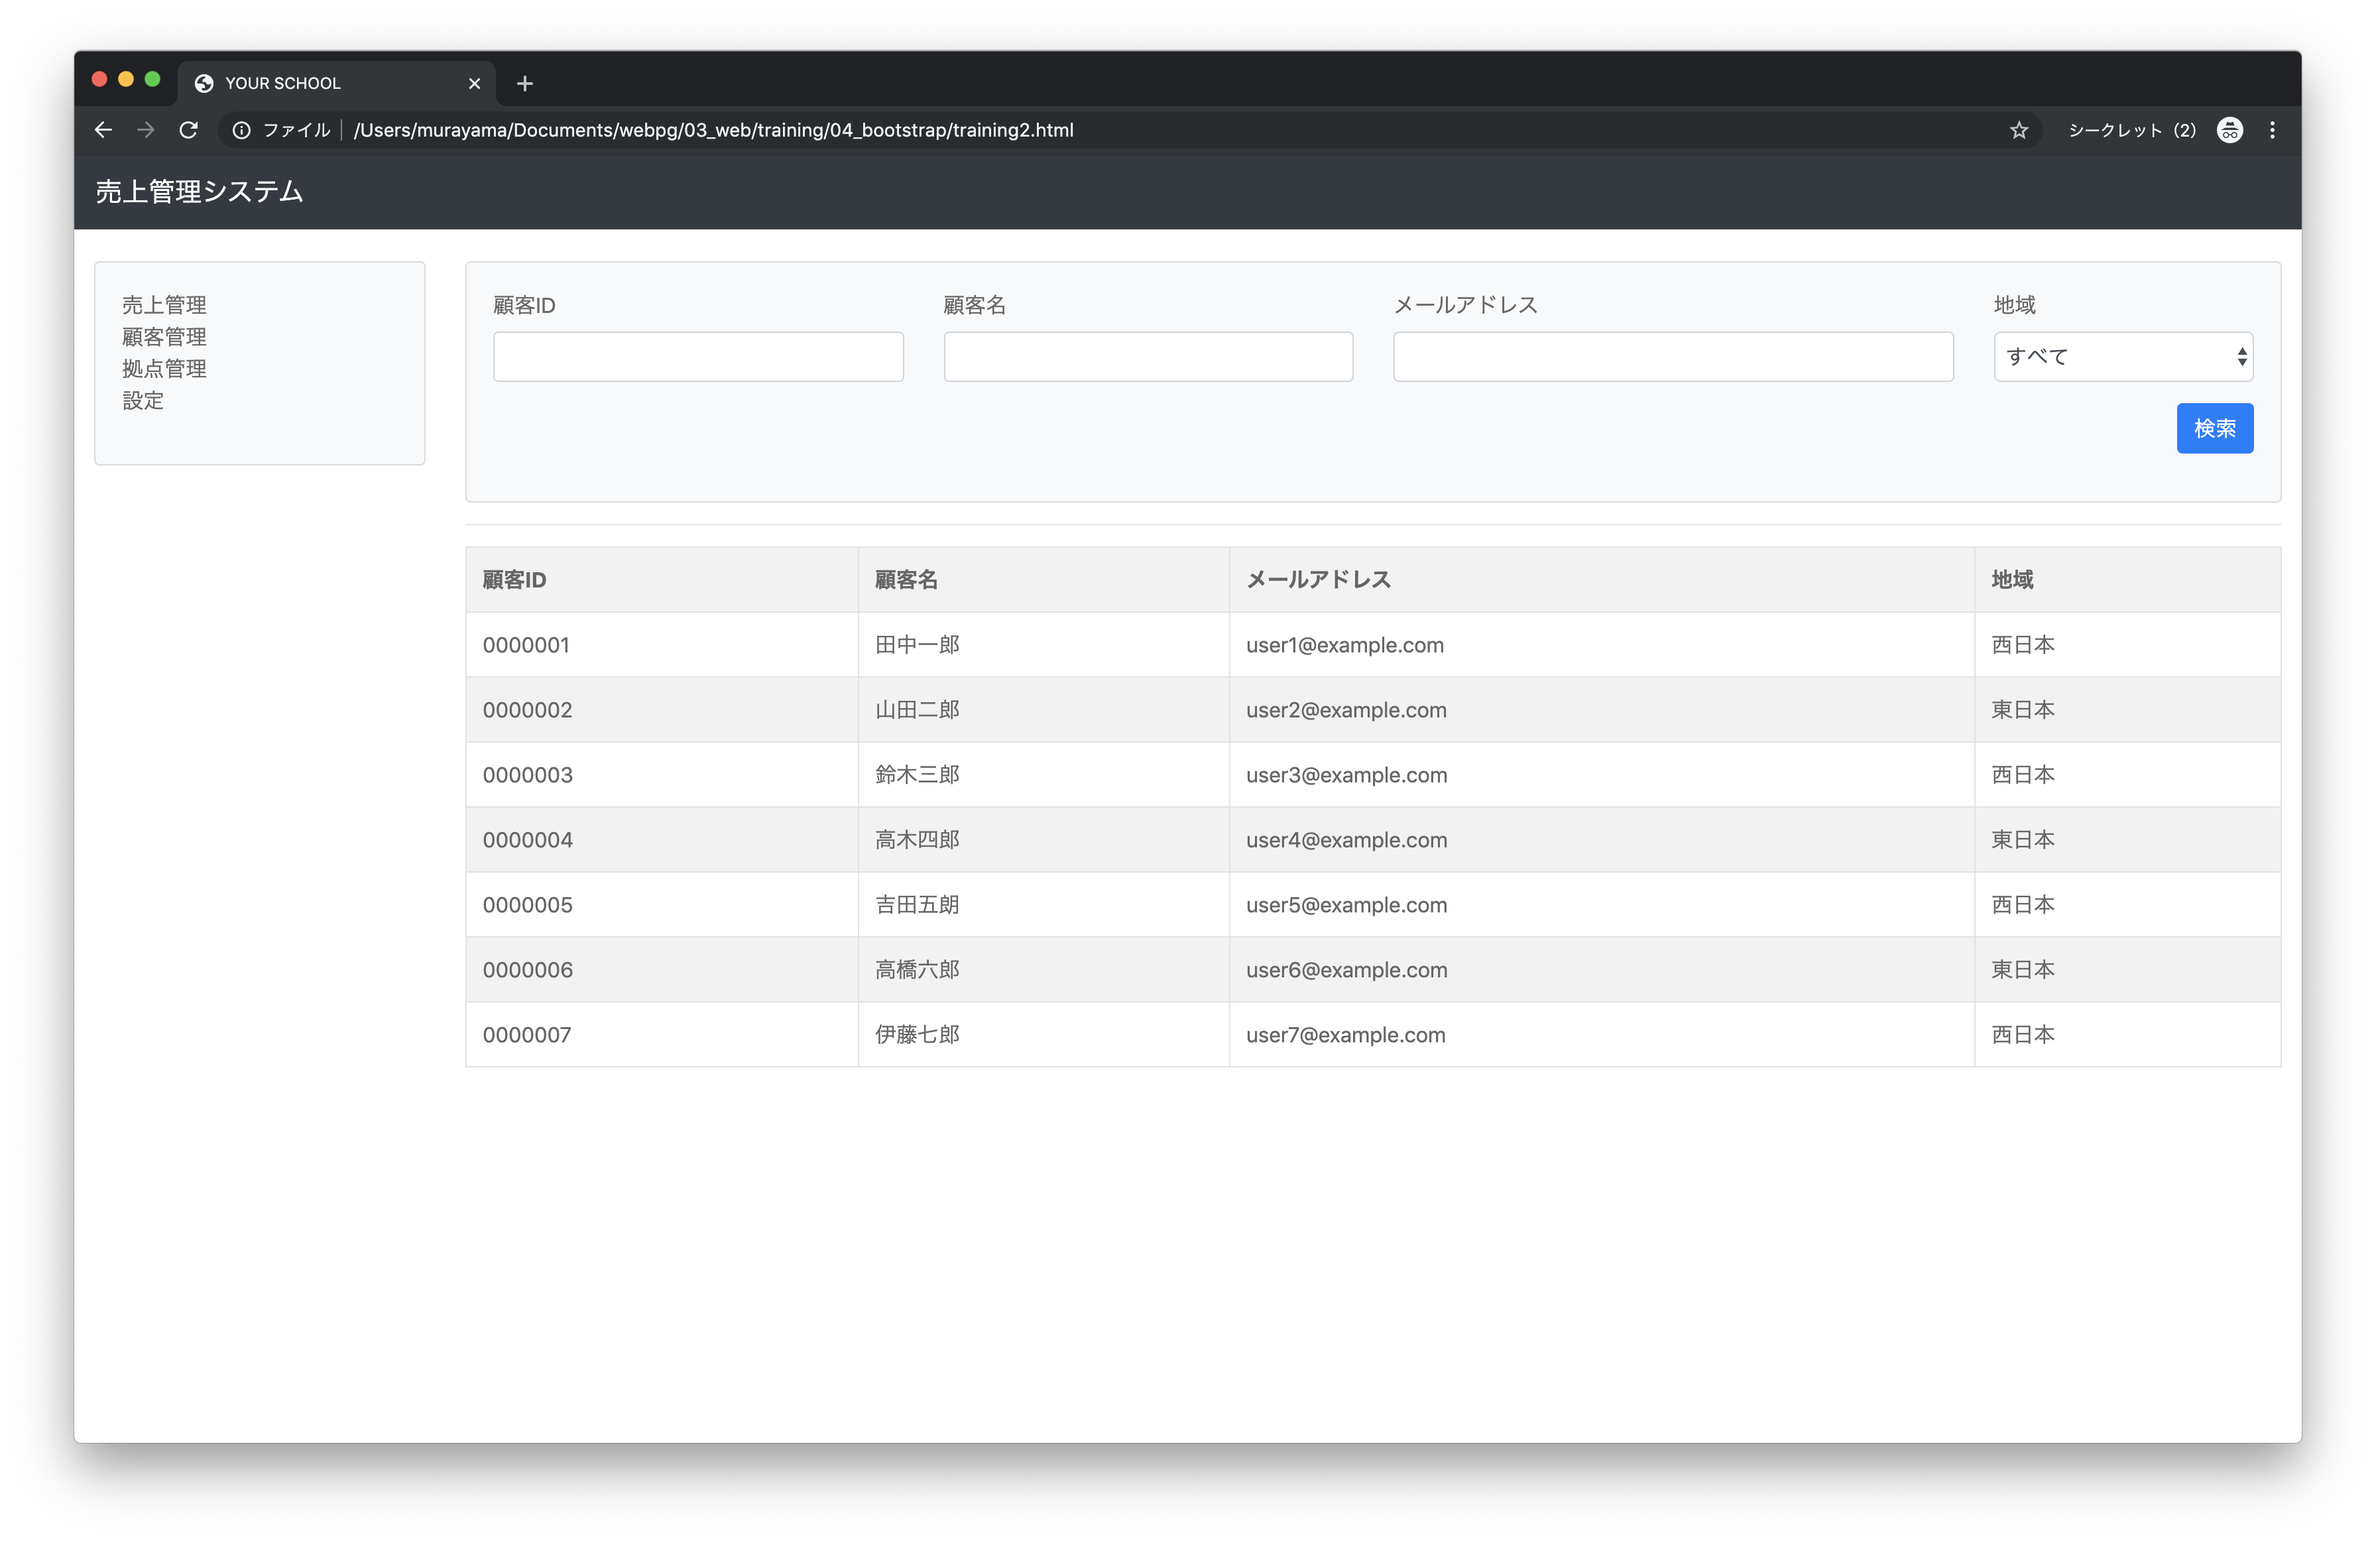
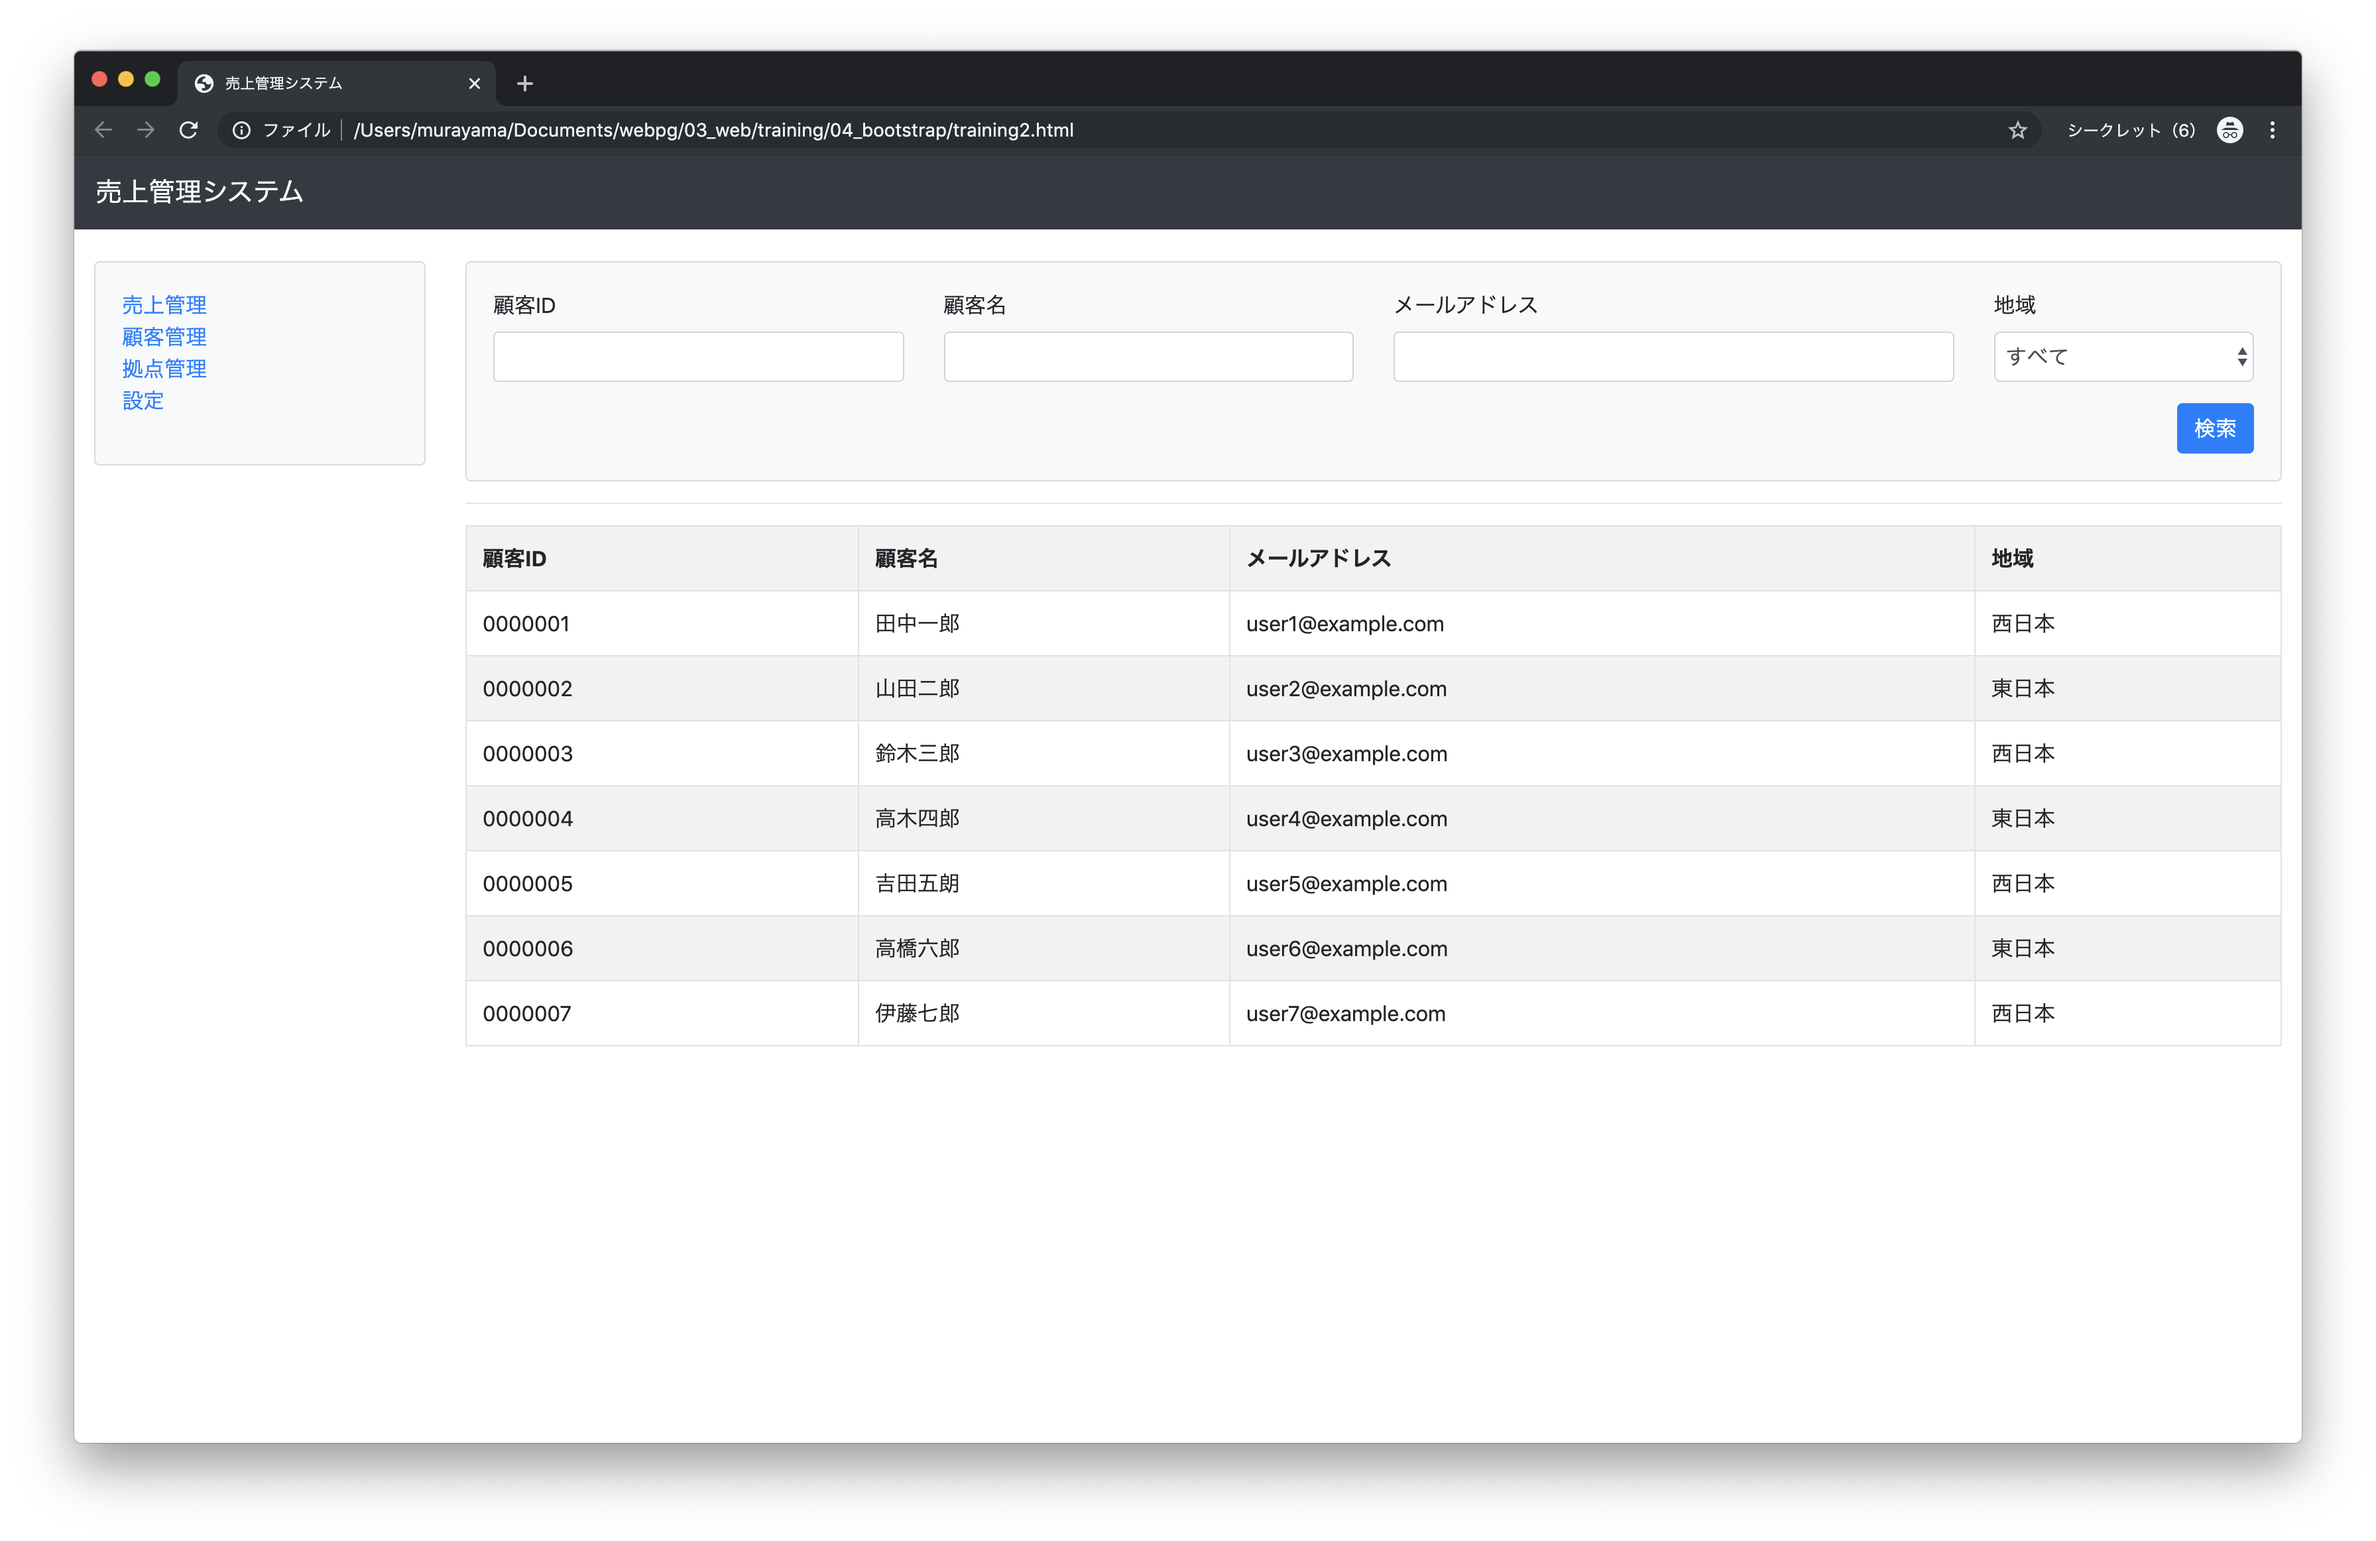
update

Changed region(s): [[0.1875, 0.3098, 0.9375, 0.6816], [0.0312, 0.1859, 0.0938, 0.2478], [0.0938, 0.031, 0.125, 0.062]]

diff --git a/03_web/training/04_bootstrap/training2.html b/03_web/training/04_bootstrap/training2.html
@@ -5,7 +5,6 @@
   <meta name="viewport" content="width=device-width, initial-scale=1.0"/>
   <title>売上管理システム</title>
   <link rel="stylesheet" href="https://stackpath.bootstrapcdn.com/bootstrap/4.3.1/css/bootstrap.min.css" integrity="sha384-ggOyR0iXCbMQv3Xipma34MD+dH/1fQ784/j6cY/iJTQUOhcWr7x9JvoRxT2MZw1T" crossorigin="anonymous">
-  <link href="https://fonts.googleapis.com/icon?family=Material+Icons" rel="stylesheet">
 </head>
 <body>
 
@@ -51,7 +50,7 @@
               </div>
             </div>
             <div class="row">
-              <div class="form-group offset-md-10 col-md-2" style="text-align: right;">
+              <div class="offset-md-10 col-md-2" style="text-align: right;">
                 <button type="submit" class="btn btn-primary">検索</button>
               </div>
             </div>

diff --git a/03_web/15_training.md b/03_web/15_training.md
@@ -10,7 +10,7 @@
 
 ---
 
-<img src="training/04_bootstrap/img/train2.png" >
+<img src="training/04_bootstrap/img/train2.png?a" >
 
 ---
 
@@ -164,3 +164,183 @@
 </body>
 </html>
 ```
+
+
+<!--
+
+
+<!DOCTYPE html>
+<html lang="ja">
+<head>
+  <meta charset="UTF-8">
+  <meta name="viewport" content="width=device-width, initial-scale=1.0"/>
+  <title>売上管理システム</title>
+  <link rel="stylesheet" href="https://stackpath.bootstrapcdn.com/bootstrap/4.3.1/css/bootstrap.min.css" integrity="sha384-ggOyR0iXCbMQv3Xipma34MD+dH/1fQ784/j6cY/iJTQUOhcWr7x9JvoRxT2MZw1T" crossorigin="anonymous">
+</head>
+<body>
+
+  <nav class="navbar navbar-dark bg-dark">
+    <a class="navbar-brand" href="#">売上管理システム</a>
+  </nav>
+
+  <div class="container-fluid mt-4">
+    <div class="row">
+      <div class="col-md-2">
+        <div class="card card-body bg-light">
+          <ul class="list-unstyled">
+            <li><a href="#">売上管理</a></li>
+            <li><a href="#">顧客管理</a></li>
+            <li><a href="#">拠点管理</a></li>
+            <li><a href="#">設定</a></li>
+          </ul>
+        </div>
+      </div>
+      <div class="col-md-10">
+        <div class="card card-body bg-light">
+          <form action="#">
+            <div class="row">
+              <div class="form-group col-md-3">
+                <label for="userId">顧客ID</label>
+                <input type="text" name="userId" id="userId" class="form-control">
+              </div>
+              <div class="form-group col-md-3">
+                <label for="userName">顧客名</label>
+                <input type="text" name="userName" id="userName" class="form-control">
+              </div>
+              <div class="form-group col-md-4">
+                <label for="mail">メールアドレス</label>
+                <input type="mail" name="mail" id="mail" class="form-control">
+              </div>
+              <div class="form-group col-md-2">
+                <label for="place">地域</label>
+                <select class="form-control" name="place" id="place">
+                  <option value="option">すべて</option>
+                  <option value="option">西日本</option>
+                  <option value="option">東日本</option>
+                </select>
+              </div>
+            </div>
+            <div class="row">
+              <div class="offset-md-10 col-md-2" style="text-align: right;">
+                <button type="submit" class="btn btn-primary">検索</button>
+              </div>
+            </div>
+          </form>
+        </div>
+
+        <hr>
+
+        <table class="table table-striped table-bordered">
+          <tr>
+            <th>顧客ID</th>
+            <th>顧客名</th>
+            <th>メールアドレス</th>
+            <th>地域</th>
+          </tr>
+          <tr>
+            <td>
+              0000001
+            </td>
+            <td>
+              田中一郎
+            </td>
+            <td>
+              user1@example.com
+            </td>
+            <td>
+              西日本
+            </td>
+          </tr>
+          <tr>
+            <td>
+              0000002
+            </td>
+            <td>
+              山田二郎
+            </td>
+            <td>
+              user2@example.com
+            </td>
+            <td>
+              東日本
+            </td>
+          </tr>
+          <tr>
+            <td>
+              0000003
+            </td>
+            <td>
+              鈴木三郎
+            </td>
+            <td>
+              user3@example.com
+            </td>
+            <td>
+              西日本
+            </td>
+          </tr>
+          <tr>
+            <td>
+              0000004
+            </td>
+            <td>
+              高木四郎
+            </td>
+            <td>
+              user4@example.com
+            </td>
+            <td>
+              東日本
+            </td>
+          </tr>
+          <tr>
+            <td>
+              0000005
+            </td>
+            <td>
+              吉田五朗
+            </td>
+            <td>
+              user5@example.com
+            </td>
+            <td>
+              西日本
+            </td>
+          </tr>
+          <tr>
+            <td>
+              0000006
+            </td>
+            <td>
+              高橋六郎
+            </td>
+            <td>
+              user6@example.com
+            </td>
+            <td>
+              東日本
+            </td>
+          </tr>
+          <tr>
+            <td>
+              0000007
+            </td>
+            <td>
+              伊藤七郎
+            </td>
+            <td>
+              user7@example.com
+            </td>
+            <td>
+              西日本
+            </td>
+          </tr>
+        </table>
+      </div>
+    </div>
+  </div>
+
+</body>
+</html>
+
+-->
